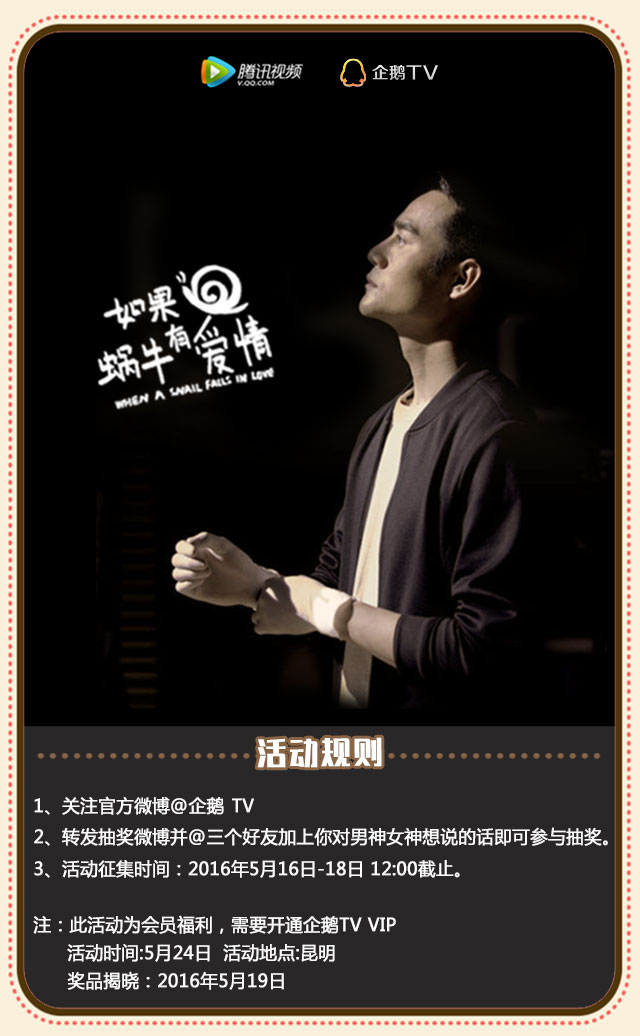
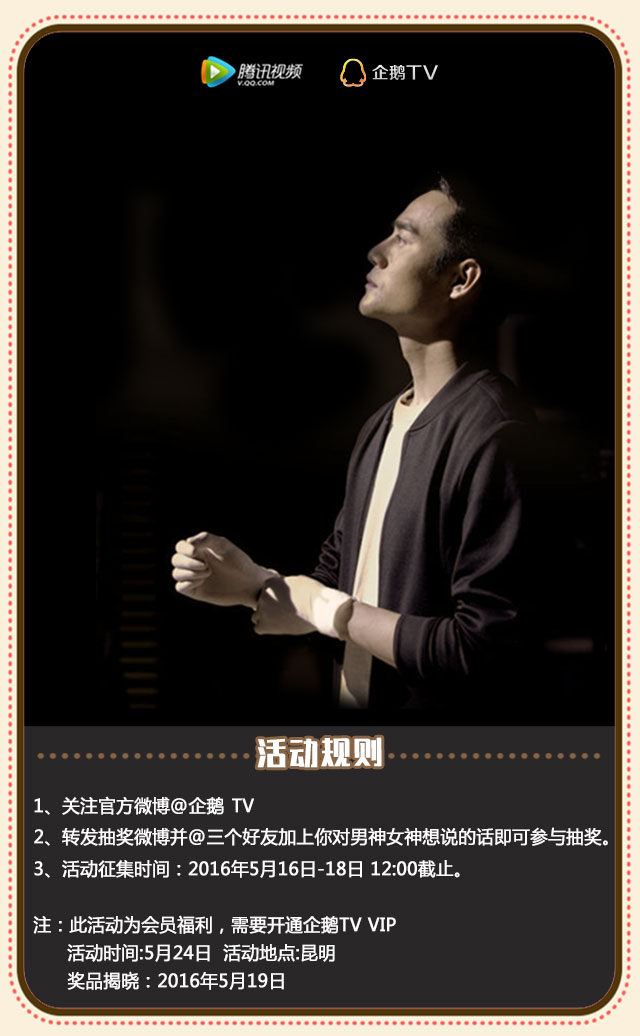
Update

Changed region(s): [[0.1562, 0.2471, 0.4375, 0.4015]]

diff --git a/woniu/css/index.css b/woniu/css/index.css
@@ -161,3 +161,33 @@ body {
   left: 52%;
   top: 68%;
   cursor: pointer; }
+
+.logo {
+  background: url("../img/logo.png") no-repeat;
+  background-size: 100% 100%;
+  position: absolute;
+  width: 31%;
+  height: 16.7%;
+  left: 14%;
+  top: 26%;
+  opacity: 0;
+  transition: .5s;
+  transform: rotate(-360deg) scale(0.2); }
+  .logo.active {
+    opacity: 1;
+    transform: rotate(0deg) scale(1); }
+
+.logo2 {
+  background: url("../img/logo.png") no-repeat;
+  background-size: 100% 100%;
+  position: absolute;
+  width: 31%;
+  height: 16.7%;
+  left: 28%;
+  top: 18%;
+  opacity: 0;
+  transition: .5s;
+  transform: rotate(-360deg) scale(0.2); }
+  .logo2.active {
+    opacity: 1;
+    transform: rotate(0deg) scale(1); }

diff --git a/woniu/css/index.scss b/woniu/css/index.scss
@@ -138,3 +138,37 @@ body{
   top: 68%;
   cursor: pointer;
 }
+.logo{
+  background: url("../img/logo.png") no-repeat;
+  background-size: 100% 100%;
+  position: absolute;
+  width: 31%;
+  height: 16.7%;
+  left: 14%;
+  top: 26%;
+  opacity:0;
+  transition: .5s;
+  transform: rotate(-360deg) scale(.2);
+
+  &.active{
+    opacity:1;
+    transform: rotate(0deg) scale(1);
+  }
+}
+.logo2{
+  background: url("../img/logo.png") no-repeat;
+  background-size: 100% 100%;
+  position: absolute;
+  width: 31%;
+  height: 16.7%;
+  left: 28%;
+  top: 18%;
+  opacity:0;
+  transition: .5s;
+  transform: rotate(-360deg) scale(.2);
+
+  &.active{
+    opacity:1;
+    transform: rotate(0deg) scale(1);
+  }
+}

diff --git a/woniu/js/app.js b/woniu/js/app.js
@@ -1,7 +1,15 @@
 var mySwiper= new Swiper('.swiper-container',{
   resistance:"100%",
   direction:"vertical",
-  initialSlide:0
+  initialSlide:2,
+  onTransitionEnd:function(swiper){
+    if(swiper.activeIndex==1){
+      $(".logo").addClass("active")
+    }
+    if(swiper.activeIndex==2){
+      $(".logo2").addClass("active")
+    }
+  }
 });
 
 $(".page1--center").addClass("active")

diff --git a/woniu/index.html b/woniu/index.html
@@ -21,11 +21,13 @@
 
     <div class="swiper-slide">
       <div class="page page2"></div>
+      <div class="logo"></div>
       <div class="arrow"></div>
     </div>
 
     <div class="swiper-slide">
       <div class="page page3"></div>
+      <div class="logo2"></div>
       <div class="arrow"></div>
     </div>
 
